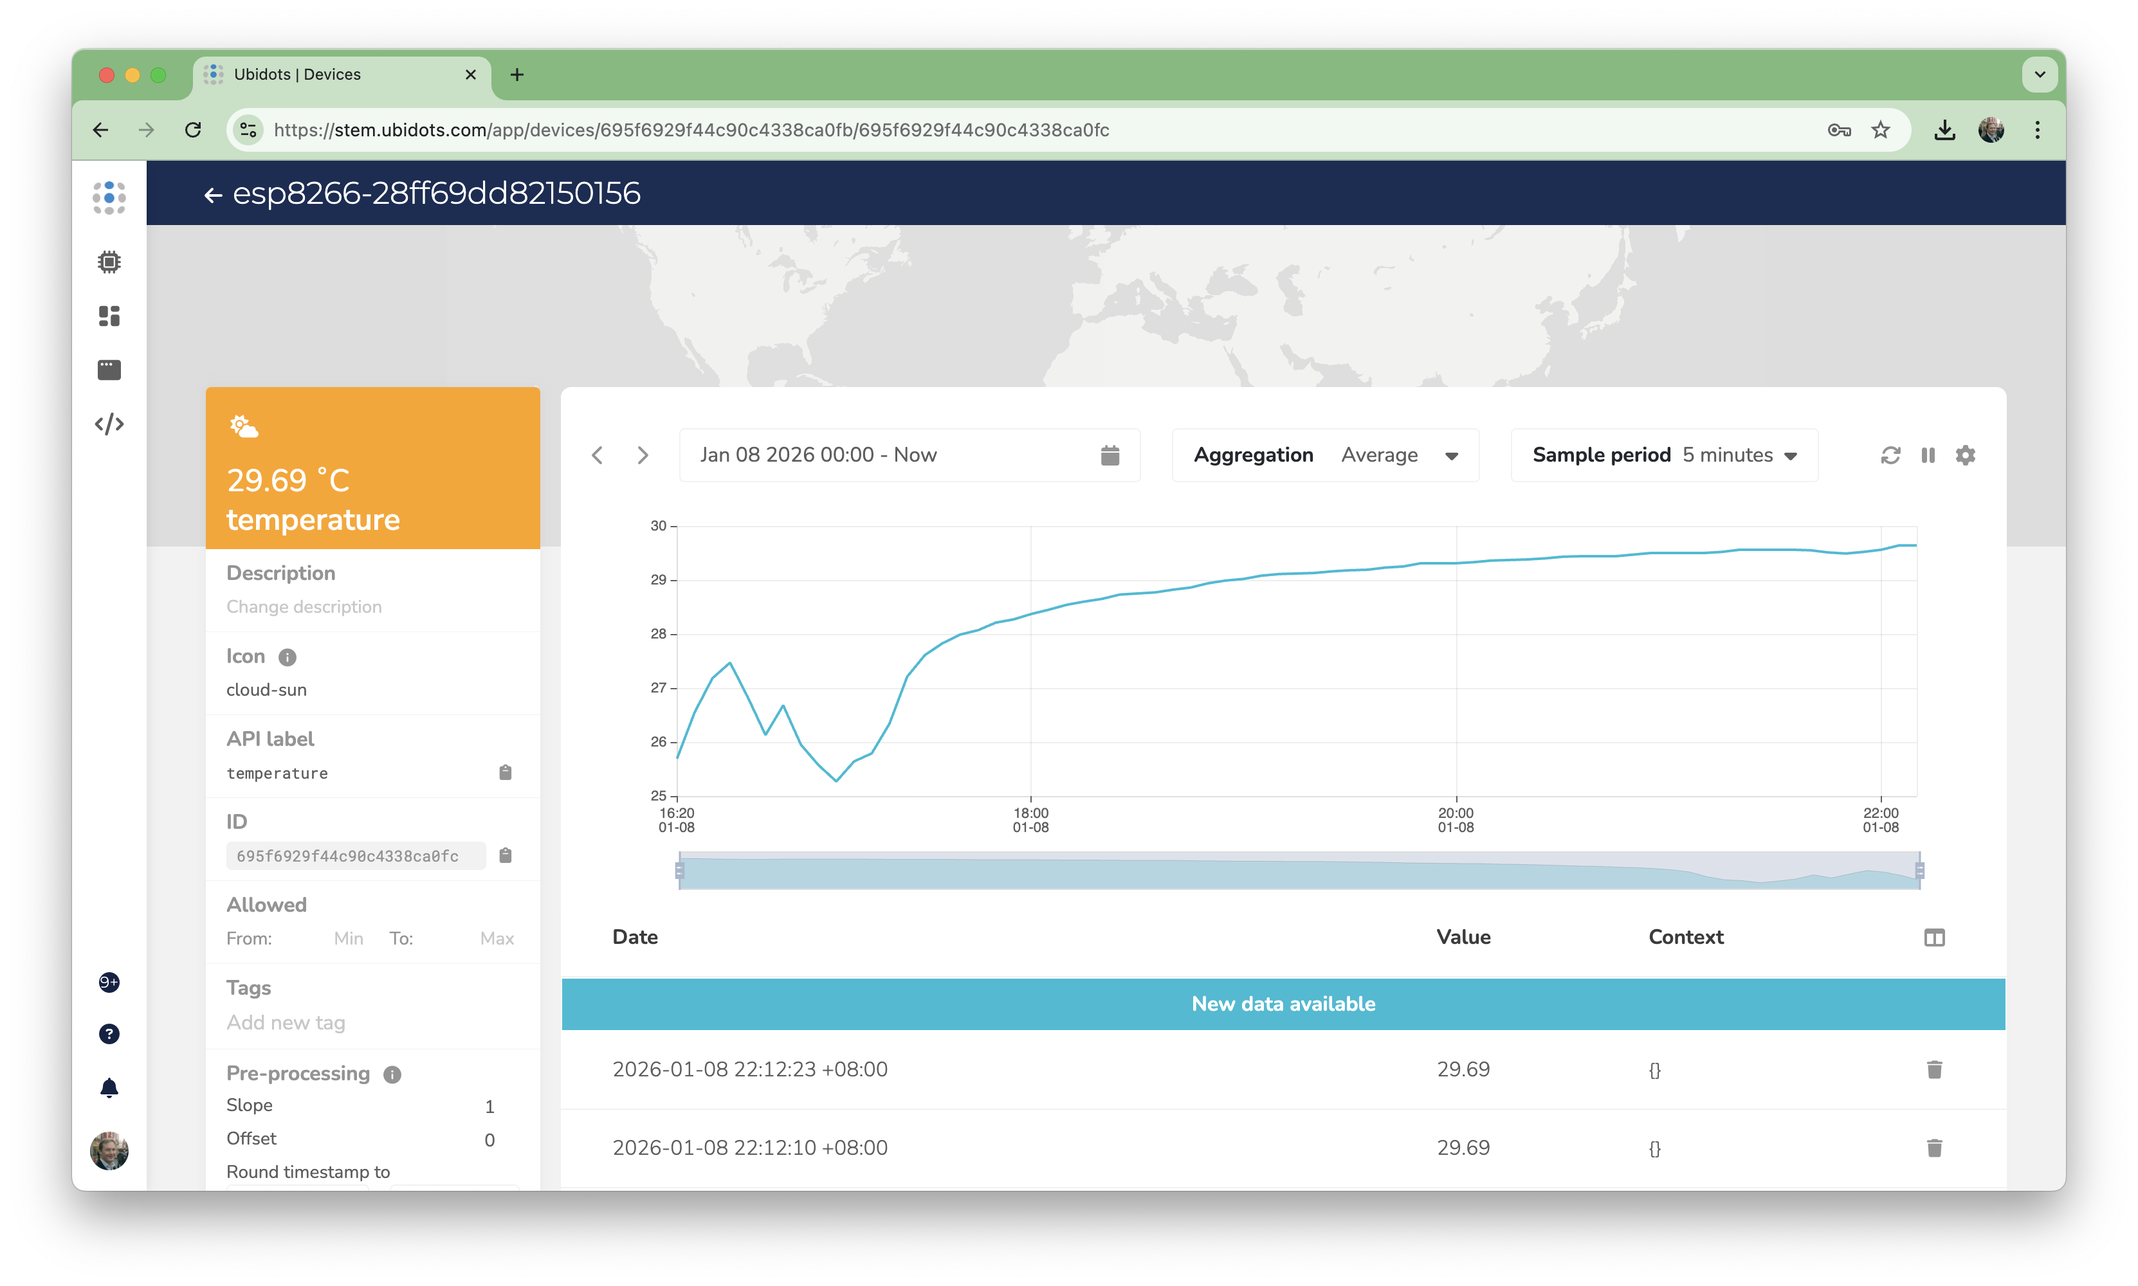
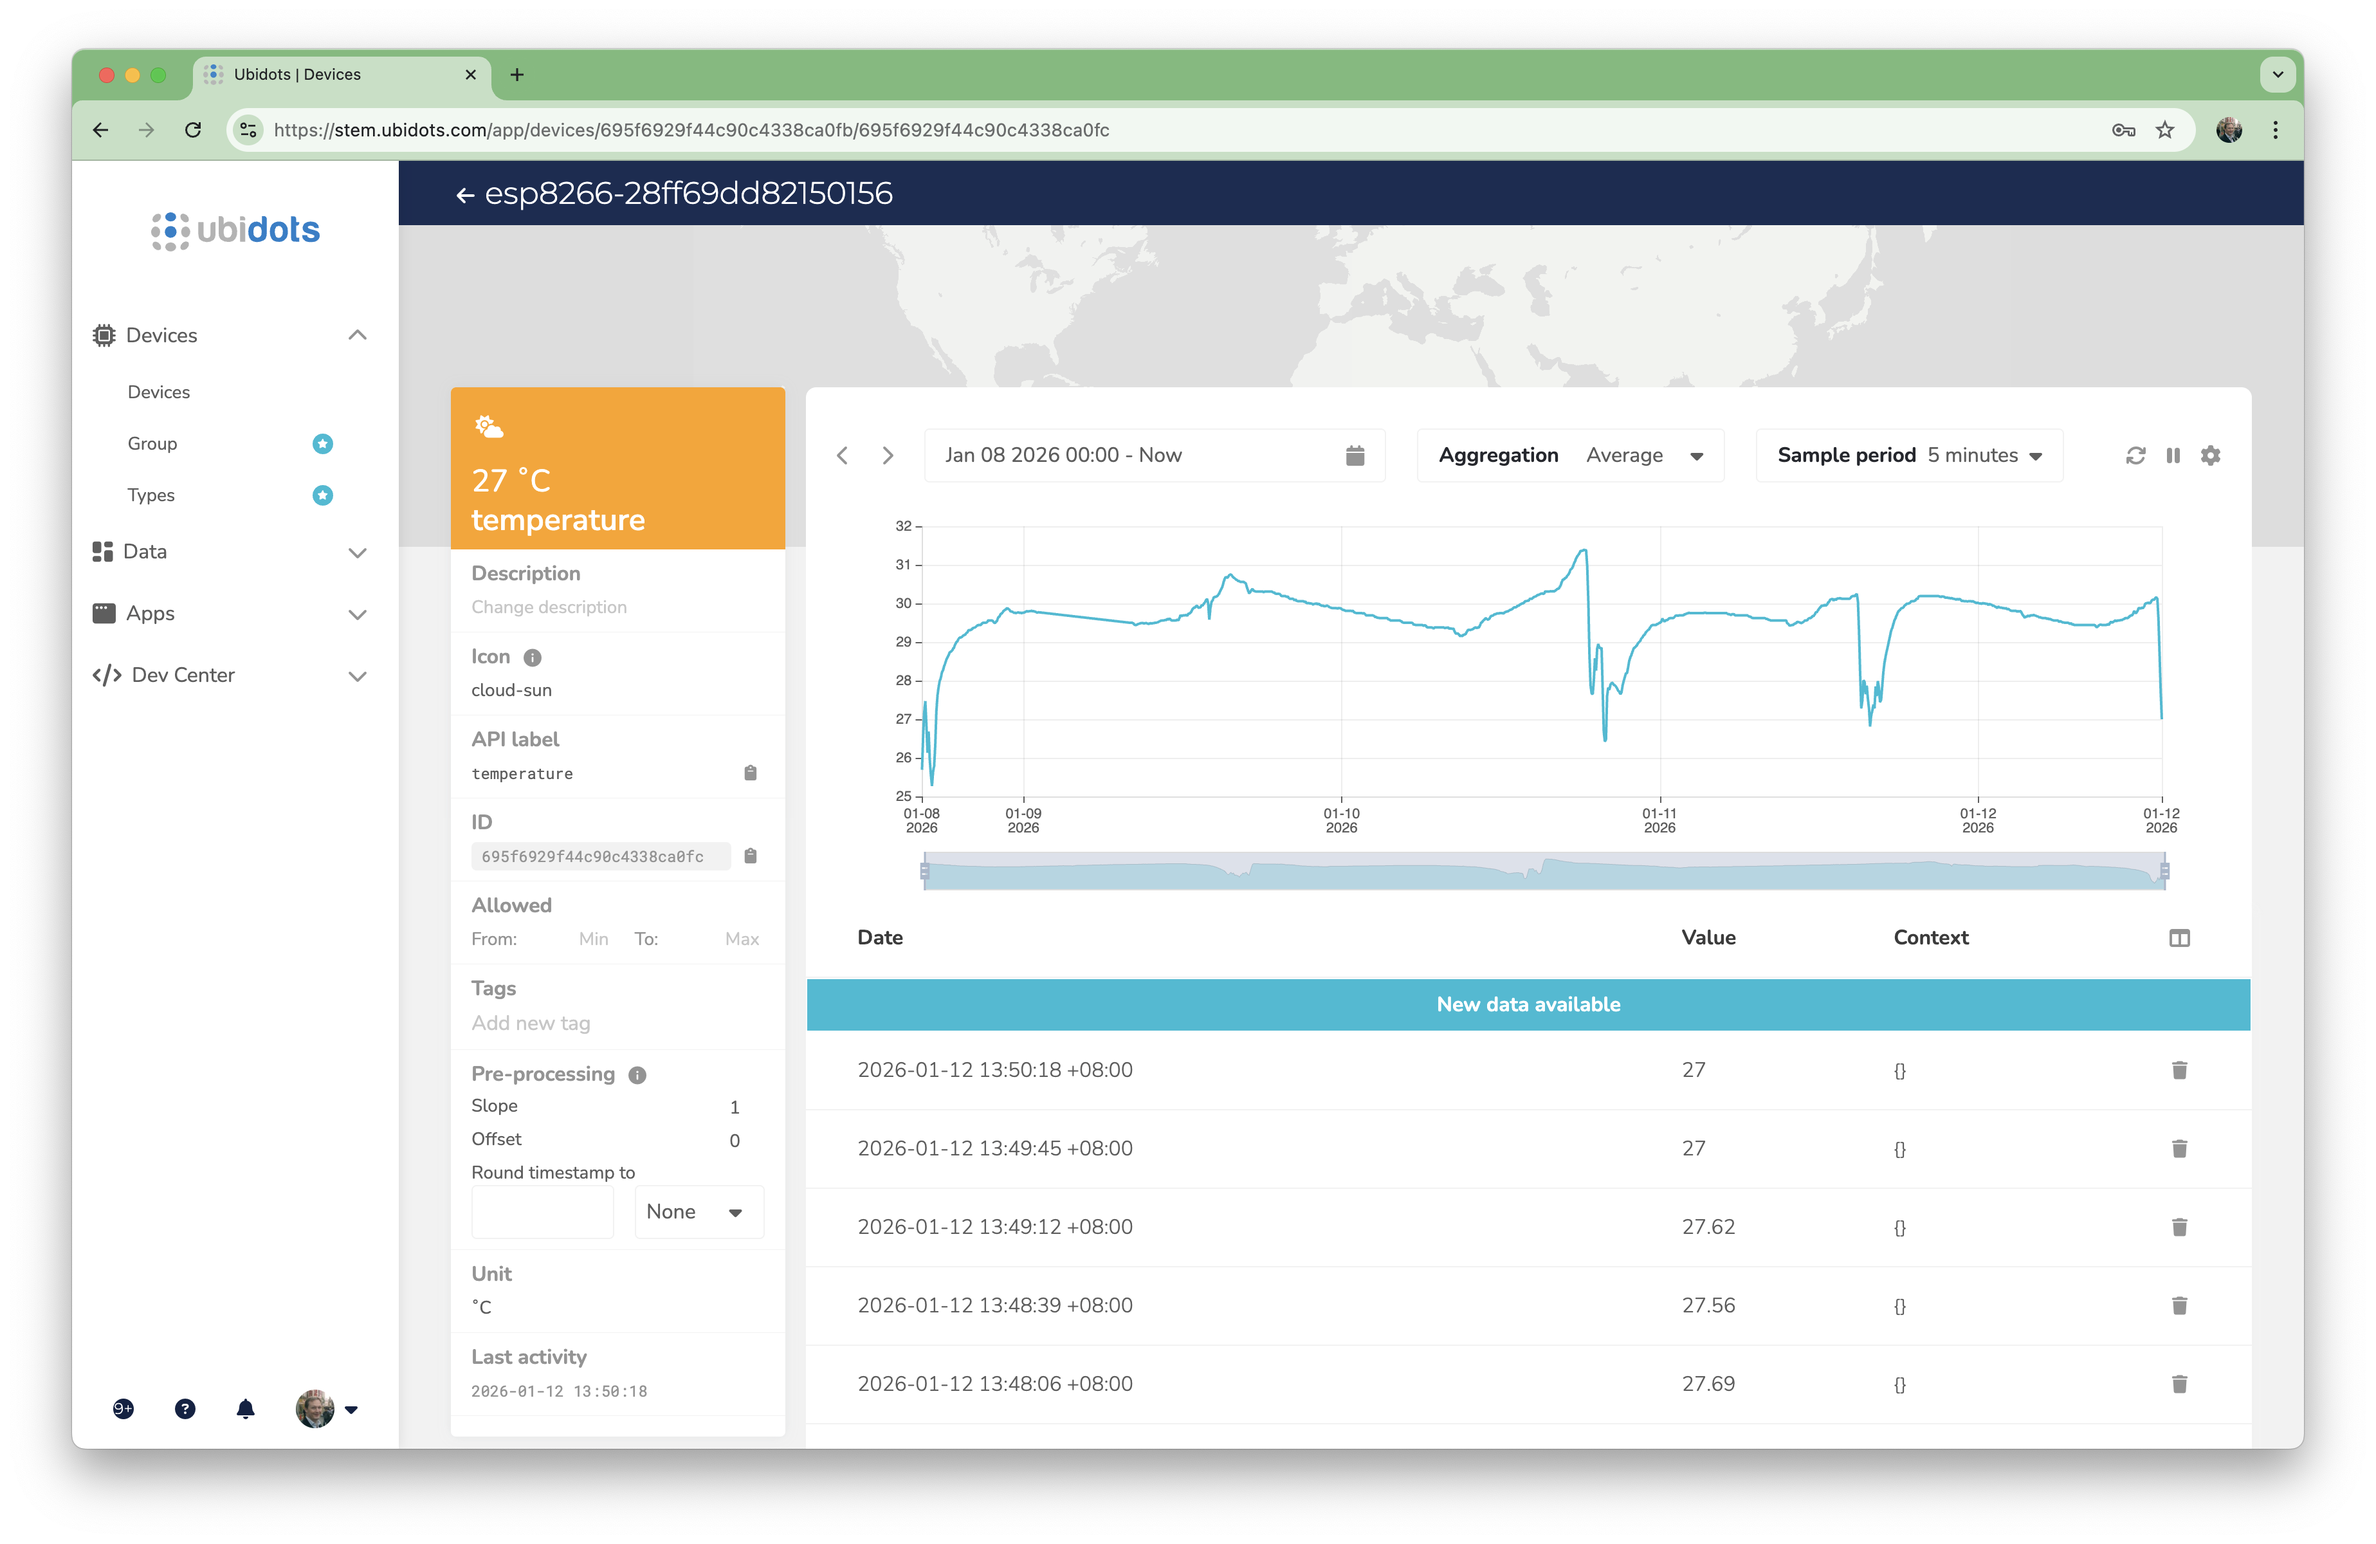
[esp-12-temperature-logger] Fix: sampling should allow for ubidots STEM account limits (#274)

diff --git a/ESP8266/micropython/esp-12-temperature-logger/log-temperature-to-ubidots.py b/ESP8266/micropython/esp-12-temperature-logger/log-temperature-to-ubidots.py
@@ -7,6 +7,8 @@ from machine import Pin
 
 UBIDOTS_API_KEY="%{UBIDOTS_API_KEY}%"
 ONEWIRE_PIN = 2
+DS_SETTLE_DELAY_SECONDS = 1
+SAMPLE_DELAY_SECONDS = 29
 
 class UbidotsApi():
 
@@ -92,7 +94,7 @@ def read_and_log_temps():
     while True:
         try:
             ds.convert_temp()
-            time.sleep(1)
+            time.sleep(DS_SETTLE_DELAY_SECONDS)
             for rom in roms:
                 device_name = 'esp8266-' + ''.join('{:02x}'.format(b) for b in rom)
                 temperature = ds.read_temp(rom)
@@ -100,7 +102,7 @@ def read_and_log_temps():
                 api.post_temperature(device_name, temperature)
         except Exception as e:
             print("Error reading temperatures:", e)
-        time.sleep(9)
+        time.sleep(SAMPLE_DELAY_SECONDS)
 
 def demo_read_and_log_temps():
     import random
@@ -108,12 +110,12 @@ def demo_read_and_log_temps():
     roms = [b'\xff\xff\xff\xff\x12\x34\x56\x78']
     api = UbidotsApi()
     while True:
-        time.sleep(1)
+        time.sleep(DS_SETTLE_DELAY_SECONDS)
         for rom in roms:
             device_name = 'demo-' + ''.join('{:02x}'.format(b) for b in rom)
             temperature = 20.0 + random.getrandbits(5) / 10.0
             print('Device:', device_name, 'Latest reading:', temperature)
             api.post_temperature(device_name, temperature)
-        time.sleep(9)
+        time.sleep(SAMPLE_DELAY_SECONDS)
 
 read_and_log_temps()

diff --git a/ESP8266/micropython/esp-12-temperature-logger/README.md b/ESP8266/micropython/esp-12-temperature-logger/README.md
@@ -265,6 +265,13 @@ See [log-temperature-to-ubidots.py](./log-temperature-to-ubidots.py) for the ful
 * `read_and_log_temps` is the main method
 * I used `demo_read_and_log_temps` for verifying the API interaction without a sensor attached
 * added some exception handling to allow for intermittent wifi connection issues
+* As I am using the [Ubidots STEM plan](https://help.ubidots.com/en/articles/639806-plans-billing-what-is-the-difference-between-ubidots-and-ubidots-stem), it has limitations that I must stay within, including:
+    * Devices: 3 free devices.
+    * Dashboards: 1 dashboard, with up to 10 widgets.
+    * Variables: Up to 10 variables per device.
+    * Data ingestion: 4,000 dots per day across all of your devices.
+        * This is the main issue: effectively restricts sampling to [>= 21.6 seconds/sample](https://www.wolframalpha.com/input?i=24+*+60+*+60+%2F+4000)
+        * I've set the sampling rate to approx 1 dot/30s, for a daily max of around [2880 dots](https://www.wolframalpha.com/input?i=24+*+60+*+60+%2F+30)
 
 ```python
 import urequests
@@ -276,6 +283,8 @@ from machine import Pin
 
 UBIDOTS_API_KEY="%{UBIDOTS_API_KEY}%"
 ONEWIRE_PIN = 2
+DS_SETTLE_DELAY_SECONDS = 1
+SAMPLE_DELAY_SECONDS = 29
 
 class UbidotsApi():
 
@@ -361,7 +370,7 @@ def read_and_log_temps():
     while True:
         try:
             ds.convert_temp()
-            time.sleep(1)
+            time.sleep(DS_SETTLE_DELAY_SECONDS)
             for rom in roms:
                 device_name = 'esp8266-' + ''.join('{:02x}'.format(b) for b in rom)
                 temperature = ds.read_temp(rom)
@@ -369,7 +378,7 @@ def read_and_log_temps():
                 api.post_temperature(device_name, temperature)
         except Exception as e:
             print("Error reading temperatures:", e)
-        time.sleep(9)
+        time.sleep(SAMPLE_DELAY_SECONDS)
 
 def demo_read_and_log_temps():
     import random
@@ -377,13 +386,13 @@ def demo_read_and_log_temps():
     roms = [b'\xff\xff\xff\xff\x12\x34\x56\x78']
     api = UbidotsApi()
     while True:
-        time.sleep(1)
+        time.sleep(DS_SETTLE_DELAY_SECONDS)
         for rom in roms:
             device_name = 'demo-' + ''.join('{:02x}'.format(b) for b in rom)
             temperature = 20.0 + random.getrandbits(5) / 10.0
             print('Device:', device_name, 'Latest reading:', temperature)
             api.post_temperature(device_name, temperature)
-        time.sleep(9)
+        time.sleep(SAMPLE_DELAY_SECONDS)
 
 read_and_log_temps()
 
@@ -495,7 +504,7 @@ And we have results being logged continuously:
 
 So I left it running for a few hours and it kept on capturing nicely. Some explanations of the readings:
 
-* the monitor is running in my work area, which is often air-conditioned during the day
+* the monitor is running in my work area, which is sometimes air-conditioned during the day
 * this is Singapore, so outdoor temp is generally around 30˚C
 
 ![ubidots-6](assets/ubidots-6.png)
